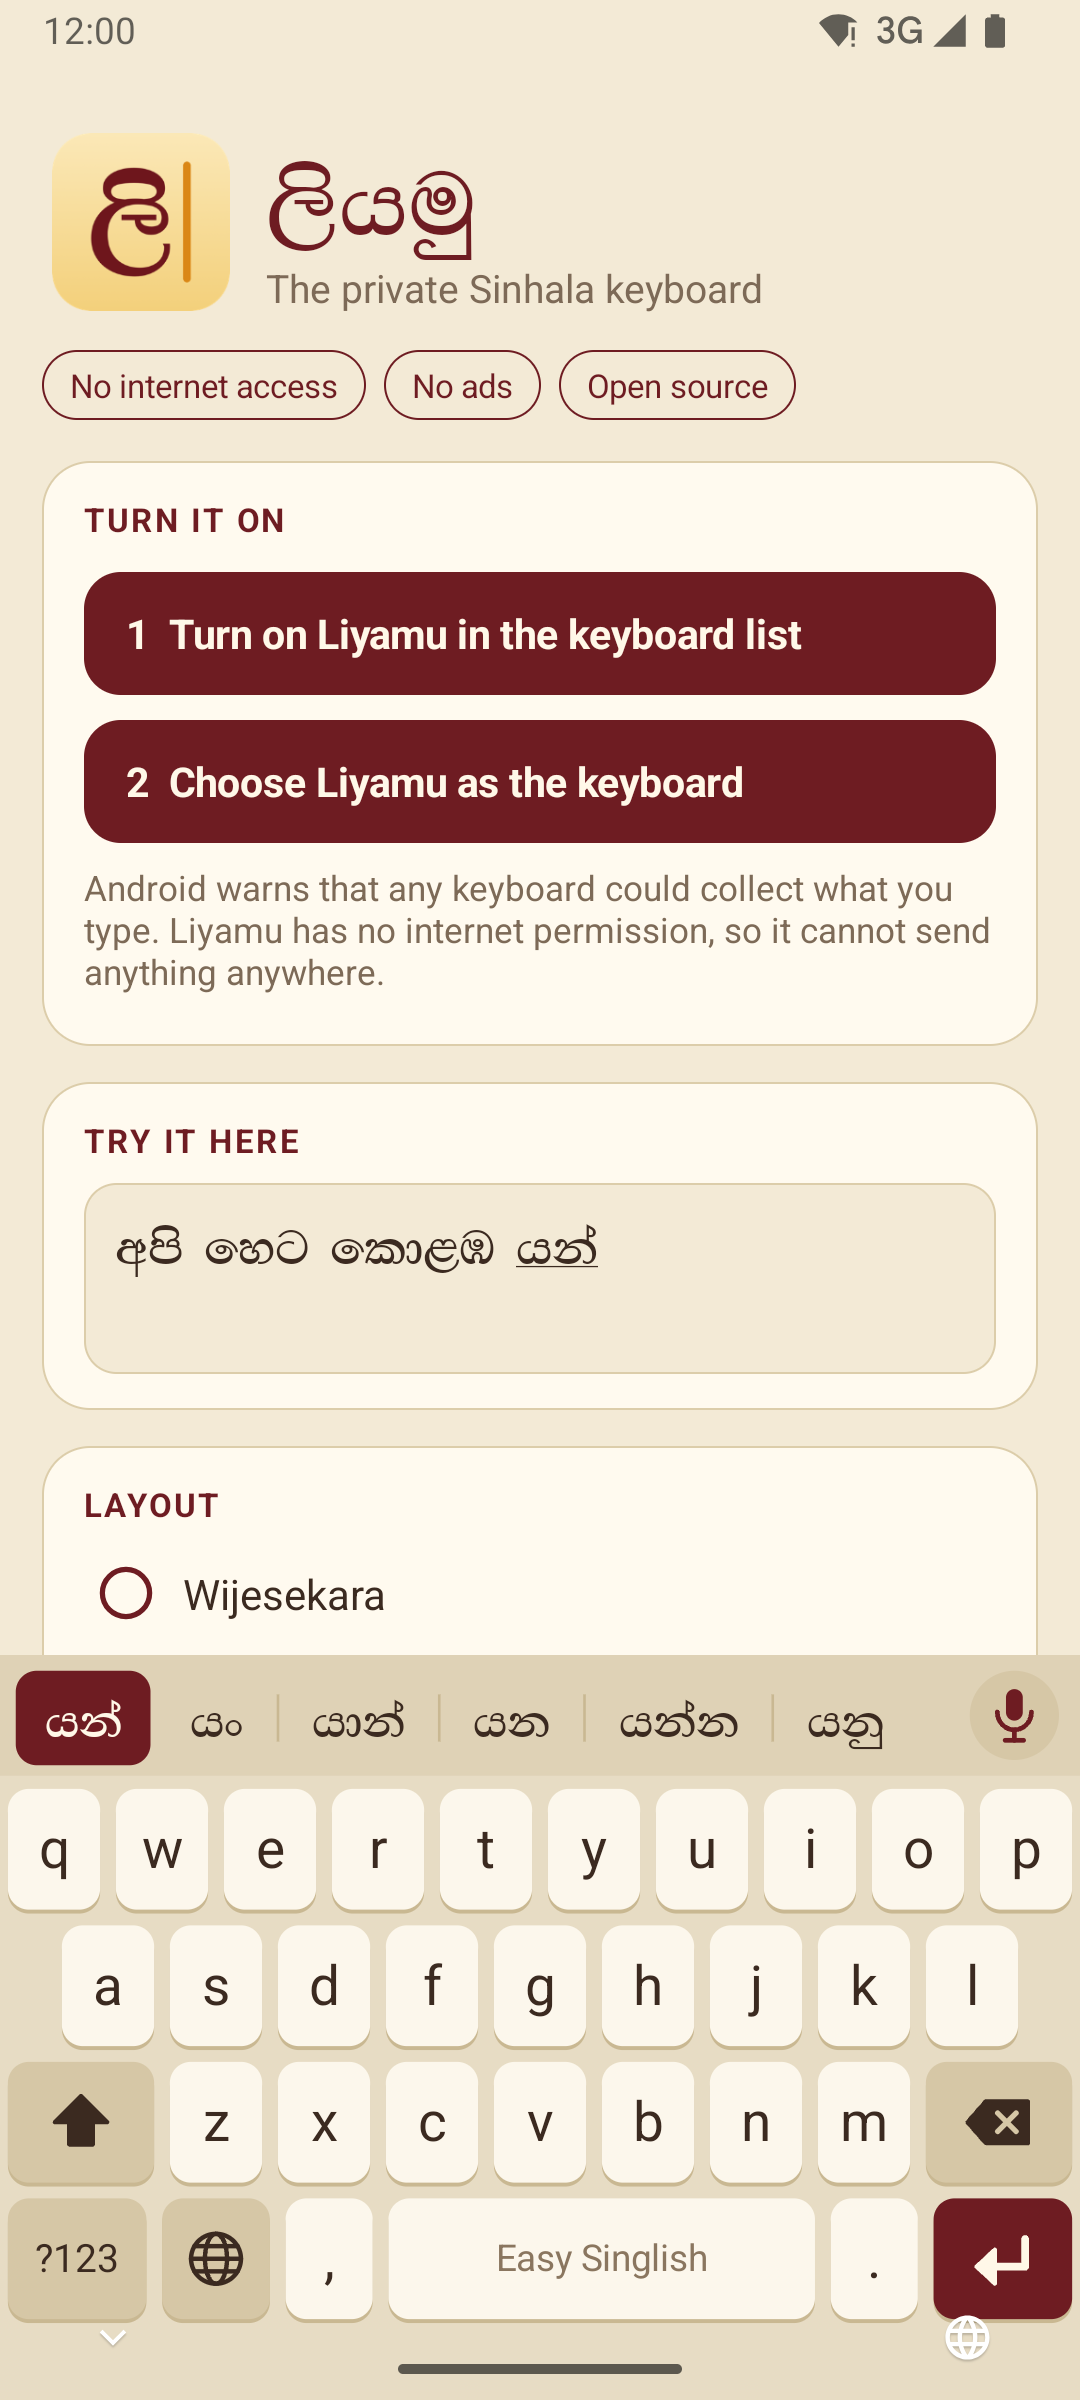
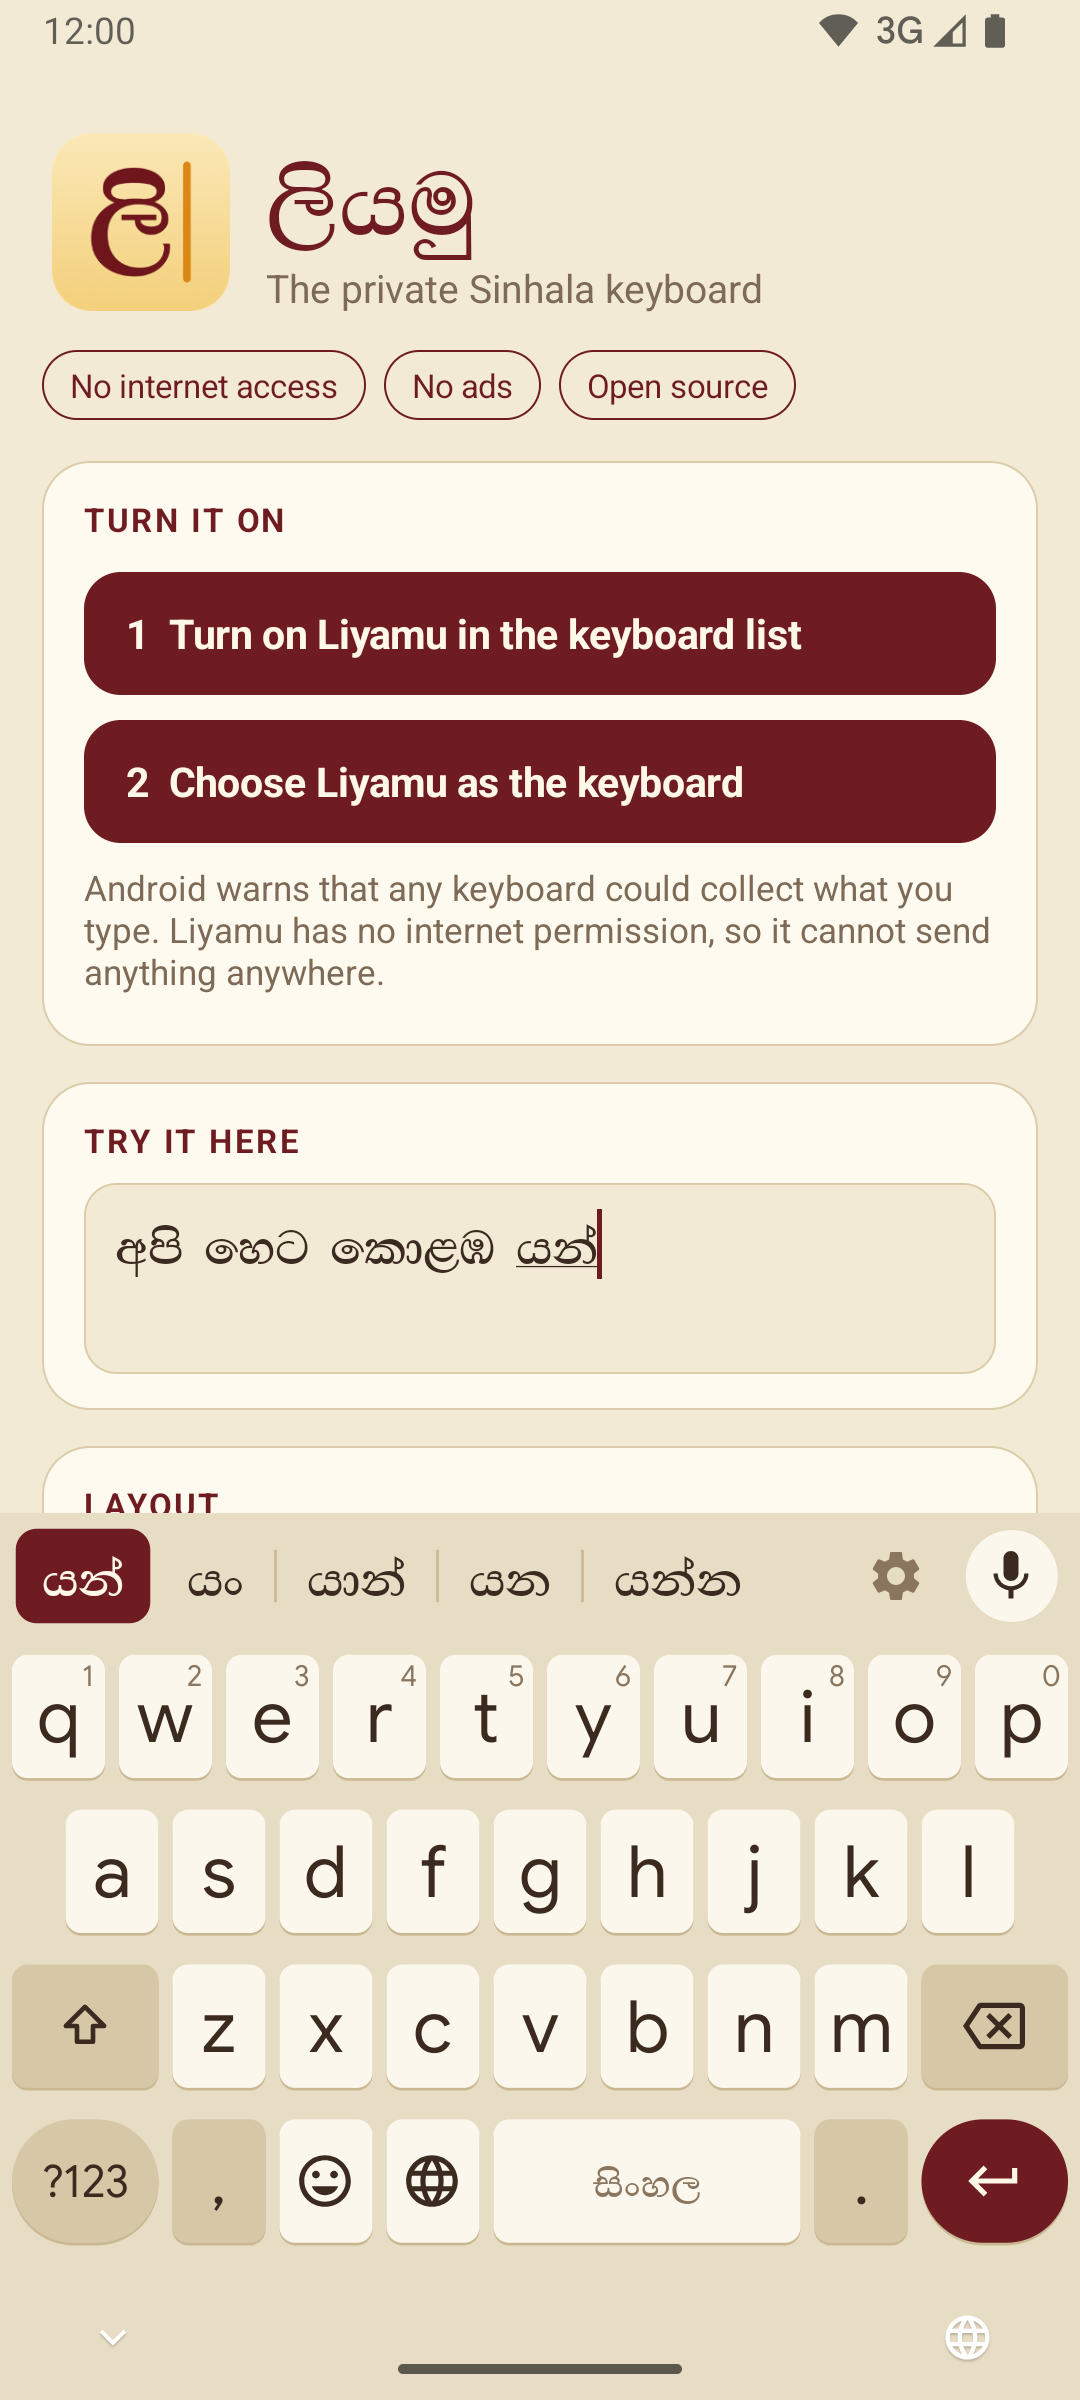
Store: screenshots of the 0.5.0 keyboard (next word and emoji added), Sinhala listing brought up to date
play.mjs joins only long wrapped lines into a paragraph, so the Sinhala headings keep their own line.

Changed region(s): [[0.0, 0.625, 1.0, 0.9688], [0.55, 0.5, 0.5806, 0.5312]]

diff --git a/docs/store/listing.md b/docs/store/listing.md
@@ -66,8 +66,9 @@ has no way to send it anywhere.
 
 පෞද්ගලිකත්වය මුලින්ම
 • අන්තර්ජාල අවසරයක් නැත. යෙදුමට කිසිවක් කොතැනකටවත් යැවිය නොහැක.
+• හඬින් ලිවීම: මයික්රෆෝන යතුරෙන් ඔබේ දුරකථනයේම හඬින් ලිවීම විවෘත වේ. ලියමු යෙදුමට මයික්රෆෝන අවසරයක් නැත.
 • ගිණුම් නැත, දැන්වීම් නැත, ලුහුබැඳීම් නැත.
-• ඔබ තෝරන වචන ඔබේ දුරකථනයේ පමණක් මතක තබා ගනී: ලියන කිසිවක් කොතැනකටවත් නොයයි; එය නවතා දැමීමට හෝ මකා දැමීමට හැකිය. මුරපද දෙස නොබලයි.
+• ඔබ තෝරන වචන සහ ඔබ සාමාන්යයෙන් ඊළඟට ලියන වචන ඔබේ දුරකථනයේ පමණක් මතක තබා ගනී: ලියන කිසිවක් කොතැනකටවත් නොයයි; එය නවතා දැමීමට හෝ මකා දැමීමට හැකිය. මුරපද දෙස නොබලයි.
 • විවෘත මූලාශ්ර (open source) බැවින් ඕනෑම කෙනෙකුට පරීක්ෂා කළ හැක.
 
 සියල්ල නොමිලේ
@@ -77,7 +78,8 @@ has no way to send it anywhere.
 • පහසු සිංග්ලිෂ් – chat එකක ලියන විදියට ලියා වචනය තෝරන්න: mama gedara yanawa → මම ගෙදර යනවා
 • විජේසේකර – සම්මත යතුරු සැකැස්ම
 • හෙළකුරු යතුරු – ඔබ දන්නා ශබ්ද යතුරු
-• ඉංග්රීසි – යතුරුපුවරුව මාරු නොකර
+• ඉංග්රීසි – ගෝල යතුරෙන් සිංහල සහ ඉංග්රීසි අතර මාරු වන්න, යතුරුපුවරුව මාරු නොකර
+• Emoji, දිගු එබීමෙන් ඉලක්කම්, සහ සෑම වචනයකට පසු ඊළඟ වචන යෝජනා
 
 නියම වචන පමණක් යෝජනා කරයි
 • වචන 146,000ක පමණ ලැයිස්තුවකින් නියම සිංහල වචන පමණි
@@ -98,7 +100,7 @@ arutha.lk සහ pitaka.lk නිර්මාණය කළ Path Nirvana Foundati
 and deletion requests do not apply.)
 
 **Screenshots (phone, 1080×2400):** `screenshots/android/01-easy-singlish.png`, `02-shorthand.png`,
-`03-wijesekara.png`, `04-settings.png`, `05-dark.png`. Icon: `design/logo/icon-square-1024.png` (scale to 512).
+`03-next-word.png`, `04-wijesekara.png`, `05-emoji.png`, `06-settings.png`, `07-dark.png`. Icon: `design/logo/icon-square-1024.png` (scale to 512).
 Feature graphic: `design/logo/feature-1024x500.png`.
 
 ## App Store (iOS) — text ready; the iOS keyboard itself is not built yet
